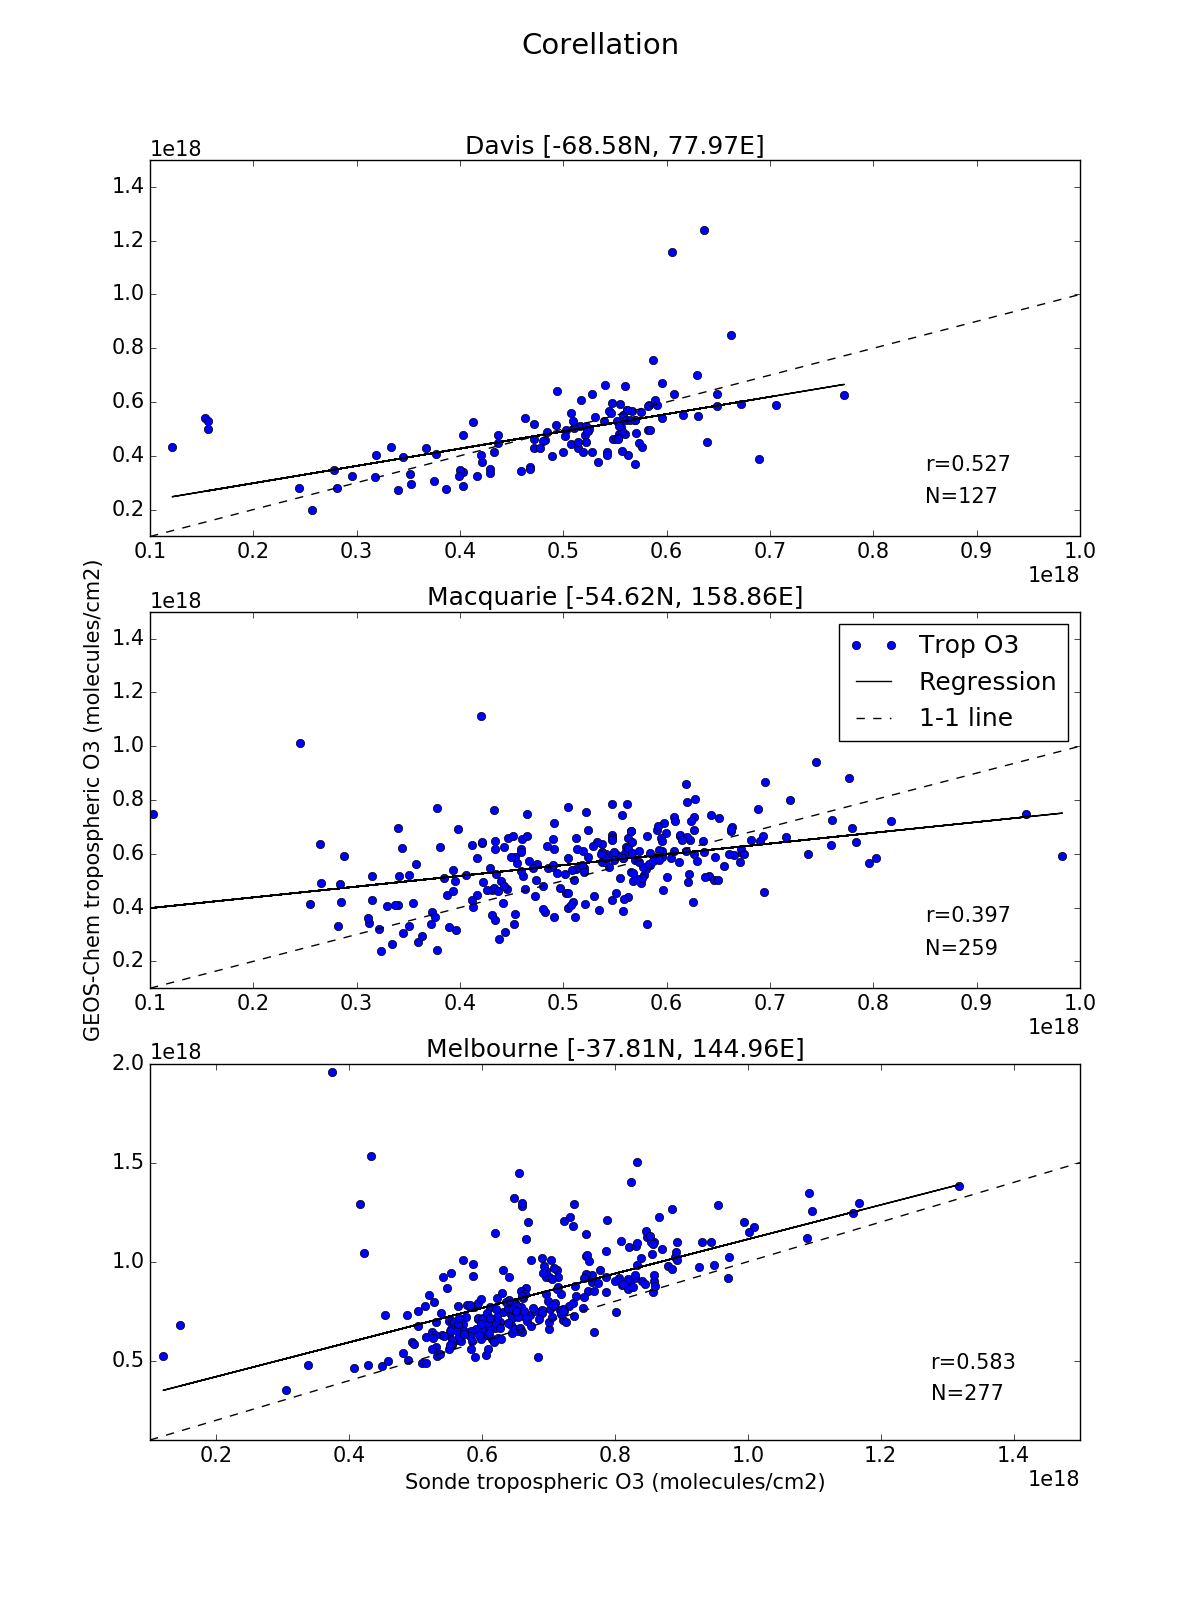
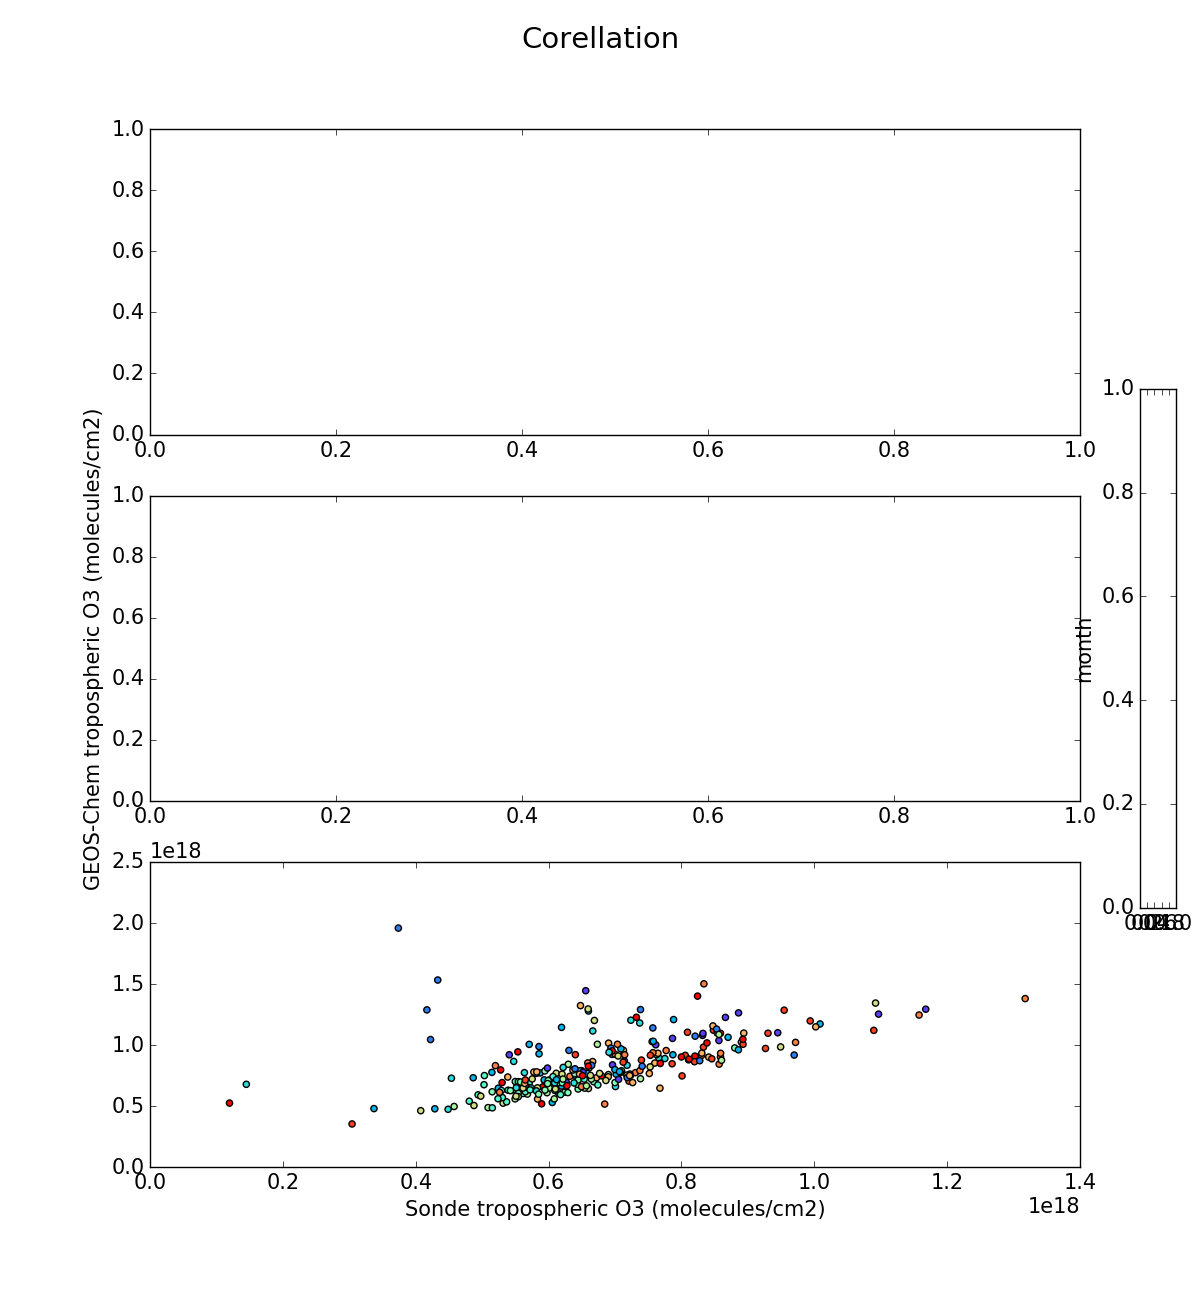
added colour to correlation

diff --git a/examine_stations.py b/examine_stations.py
@@ -8,8 +8,10 @@
 import matplotlib
 matplotlib.use('Agg')
 
+
 # plotting, reading ncdf, csv, maths
-import matplotlib.pyplot as plt
+import matplotlib.pyplot as plt # plotting module
+import matplotlib.cm as cm # colour maps
 from matplotlib.dates import DateFormatter
 import numpy as np
 from datetime import datetime
@@ -20,11 +22,119 @@ import fio
 # set all fonts to 15
 matplotlib.rcParams.update({'font.size': 15})
 
+def anomaly_corellation(outfile='images/corellations_anomalies.png'):
+    '''
+    plot correlation of monthly average anomalies between sondes and GC where both occur on the same day.
+    '''
+    from scipy import stats
+    
+    # read the three files into a list
+    files=[ fio.read_GC_station(f) for f in range(3) ]
+    o3sondes = [fio.read_site(s) for s in range(3) ]
+    
+    f3, f3axes = plt.subplots(3, 1, figsize=(12,16))
+    f3axes[2].set_xlabel('Sonde tropospheric O3 relative anomaly')#(molecules/cm2)')
+    f3axes[1].set_ylabel('GEOS-Chem tropospheric O3 relative anomaly')#(molecules/cm2)')
+    #xlims=[[1e17,1e18], [1e17,1e18], [1e17,1.5e18]]
+    #ylims=[[1e17,1.5e18], [1e17,1.5e18], [1e17, 2e18]]
+    
+    # set up colorbar
+    cmap=plt.get_cmap('rainbow', 12)
+    
+    # for each station do this
+    # gc, os, f3ax, i = files[0], o3sondes[0], f3axes[0], range(len(files))[0]
+    for gc, os, f3ax, i in zip(files, o3sondes, f3axes, range(len(files))):
+        #xlim,ylim=xlims[i],ylims[i]
+        xlim,ylim=[-1.5,1.5],[-1.5,1.5]
+        plt.sca(f3ax) # set current axis
+        ## grab variables
+        # Ozone data array [time] in molecules/cm2
+        # Note I only want UTC0 data from the model
+        allhours=[ d.hour for d in gc['Date'] ]
+        H0inds=np.where(allhours==0)[0]
+        
+        data=gc['O3TropColumn'][H0inds]
+        sdata=np.array(os.tropvc)
+        
+        # create string title and turn tau's into matplotlib date numbers
+        station=gc['Station']
+        dates = gc['Date'][H0inds]
+        allmonths=[ d.month for d in dates ]
+        sdates= np.array(os.dates)
+        sallmonths= [ d.month for d in sdates ]
+        mean = np.zeros(12)
+        smean= np.zeros(12)
+        for i in range(12):
+            minds=np.where(allmonths == i+1)
+            sminds=np.where(sallmonths == i+1)
+            mean=np.mean(data[minds])
+            smean=np.mean(sdata[sminds])
+        # only look at data with matching dates
+        osh0dates= [datetime(d.year,d.month,d.day,0,0) for d in sdates]
+        Yos=[]
+        Ygc=[]
+        mnth=[]
+        for sdate, si in zip(osh0dates, range(len(osh0dates))):
+            if sdate in dates:
+                ind=np.where(dates == sdate)[0]
+                if len(ind) == 0 or np.isnan(sdata[si]):
+                    continue
+                else: 
+                    ind=ind[0]
+                #print(ind, dates[ind])
+                #print(si, sdates[si])
+                #Work out anomaly and append to list
+                mind=sdate.month-1
+                Yos.append((sdata[si]-smean[mind])/smean[mind])
+                Ygc.append((data[ind]-mean[mind])/mean[mind])
+                mnth.append(sdate.month)
+        
+        
+        Yos,Ygc = np.array(Yos),np.array(Ygc)
+        # plot correlation coefficient
+        slope,intercept,r_value,p_value,std_err= stats.linregress(Yos,Ygc)
+        
+        aplot=f3ax.scatter(Yos, Ygc, c=mnth, cmap=cmap, label='Trop O3')
+        f3ax.plot(Yos, intercept+slope*Yos, 'k-', label='Regression')
+        #f3ax.plot(xlim, xlim, 'k--', label='1-1 line')
+        f3ax.plot([-1,1], [-1, 1], 'k--', label='1-1 line')
+        f3ax.set_title(station)
+        #f3ax.set_ylim(ylim)
+        #f3ax.set_xlim(xlim)
+        txty=0.15*ylim[1]
+        txtx=0.85*xlim[1]
+        txty2=0.23*ylim[1]
+        plt.text(txtx,txty,"N=%d"%len(Yos))
+        plt.text(txtx,txty2,"r=%5.3f"%r_value)
+        if i==1: plt.legend()
+    # set plot titles
+    f3.suptitle('Corellation',fontsize=21)
+    
+    # add colourbar space to the right
+    f3.subplots_adjust(right=0.8)
+    cbar_ax = f3.add_axes([0.85, 0.20, 0.05, 0.6])
+    # add colourbar
+    cb=f3.colorbar(aplot,cax=cbar_ax)
+    # set the 12 ticks nicely and roughly centred
+    cb.set_ticks(np.linspace(1,12,12) + (6.5-np.linspace(1,12,12))/12.)
+    cb.set_ticklabels(['J','F','M','A','M','J','J','A','S','O','N','D'])
+    cb.set_label('month')
+    
+    # save then close plots
+    #plt.show()
+    f3.savefig(outfile)
+    print("Image saved to %s"%outfile)
+    plt.close(f3)
+
 def corellation(outfile='images/corellations.png'):
     '''
     plot correlation between sondes and GC where both occur on the same day.
     '''
     from scipy import stats
+    
+    # read the three files into a list
+    files=[ fio.read_GC_station(f) for f in range(3) ]
+    o3sondes = [fio.read_site(s) for s in range(3) ]
     
     f3, f3axes = plt.subplots(3, 1, figsize=(12,16))
     f3axes[2].set_xlabel('Sonde tropospheric O3 (molecules/cm2)')
@@ -32,9 +142,8 @@ def corellation(outfile='images/corellations.png'):
     xlims=[[1e17,1e18], [1e17,1e18], [1e17,1.5e18]]
     ylims=[[1e17,1.5e18], [1e17,1.5e18], [1e17, 2e18]]
     
-    # read the three files into a list
-    files=[ fio.read_GC_station(f) for f in range(3) ]
-    o3sondes = [fio.read_site(s) for s in range(3) ]
+    # set up colorbar
+    cmap=plt.get_cmap('rainbow', 12)
     
     # for each station do this
     # gc, os, f3ax, i = files[0], o3sondes[0], f3axes[0], range(len(files))[0]
@@ -49,12 +158,14 @@ def corellation(outfile='images/corellations.png'):
         # create string title and turn tau's into matplotlib date numbers
         station=gc['Station']
         dates = gc['Date']
+        
         sdates= np.array(os.dates)
         
         # only look at data with matching dates
         osh0dates= [datetime(d.year,d.month,d.day,0,0) for d in sdates]
         Yos=[]
         Ygc=[]
+        mnth=[]
         for sdate, si in zip(osh0dates, range(len(osh0dates))):
             if sdate in dates:
                 ind=np.where(dates == sdate)[0]
@@ -66,13 +177,18 @@ def corellation(outfile='images/corellations.png'):
                 #print(si, sdates[si])
                 Yos.append(sdata[si])
                 Ygc.append(data[ind])
+                mnth.append(sdate.month)
         
         # Instead of data, look at correlation of difference from the monthly mean
         #TODO:
         Yos,Ygc = np.array(Yos),np.array(Ygc)
         # plot correlation coefficient
         slope,intercept,r_value,p_value,std_err= stats.linregress(Yos,Ygc)
-        f3ax.plot(Yos, Ygc, 'o', label='Trop O3')
+        #f3ax.plot(Yos, Ygc, 'o', c=mnth, label='Trop O3')
+        
+        #mcolours= cm.rainbow(np.array(mnth)/12.0)
+        
+        aplot=f3ax.scatter(Yos, Ygc, c=mnth, cmap=cmap, label='Trop O3')
         f3ax.plot(Yos, intercept+slope*Yos, 'k-', label='Regression')
         f3ax.plot(xlim, xlim, 'k--', label='1-1 line')
         f3ax.set_title(station)
@@ -87,11 +203,23 @@ def corellation(outfile='images/corellations.png'):
     # set plot titles
     f3.suptitle('Corellation',fontsize=21)
     
+    # add colourbar space to the right
+    f3.subplots_adjust(right=0.8)
+    cbar_ax = f3.add_axes([0.85, 0.20, 0.05, 0.6])
+    # add colourbar
+    cb=f3.colorbar(aplot,cax=cbar_ax)
+    # set the 12 ticks nicely and roughly centred
+    cb.set_ticks(np.linspace(1,12,12) + (6.5-np.linspace(1,12,12))/12.)
+    cb.set_ticklabels(['J','F','M','A','M','J','J','A','S','O','N','D'])
+    cb.set_label('month')
+    
     # save then close plots
     #plt.show()
     f3.savefig(outfile)
     print("Image saved to %s"%outfile)
     plt.close(f3)
+
+
 
 def SO_extrapolation():
     '''
@@ -487,10 +615,11 @@ if __name__ == "__main__":
     
     #[event_profiles(s) for s in [0,1,2]]
     #time_series()
+    anomaly_corellation()
     corellation()
     #yearly_cycle()
     #monthly_GC_profiles()
     #monthly_sonde_profiles()
-    SO_extrapolation()
+    #SO_extrapolation()
     #[monthly_GC_profiles(hour=h) for h in [0,6,12,18] ]
     
